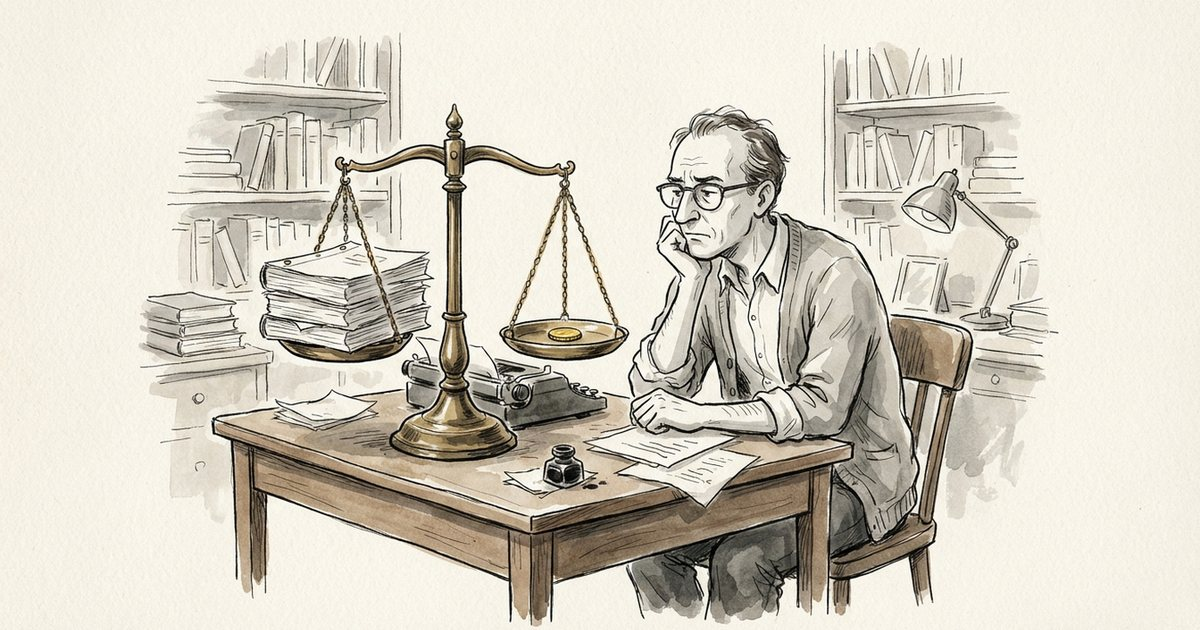
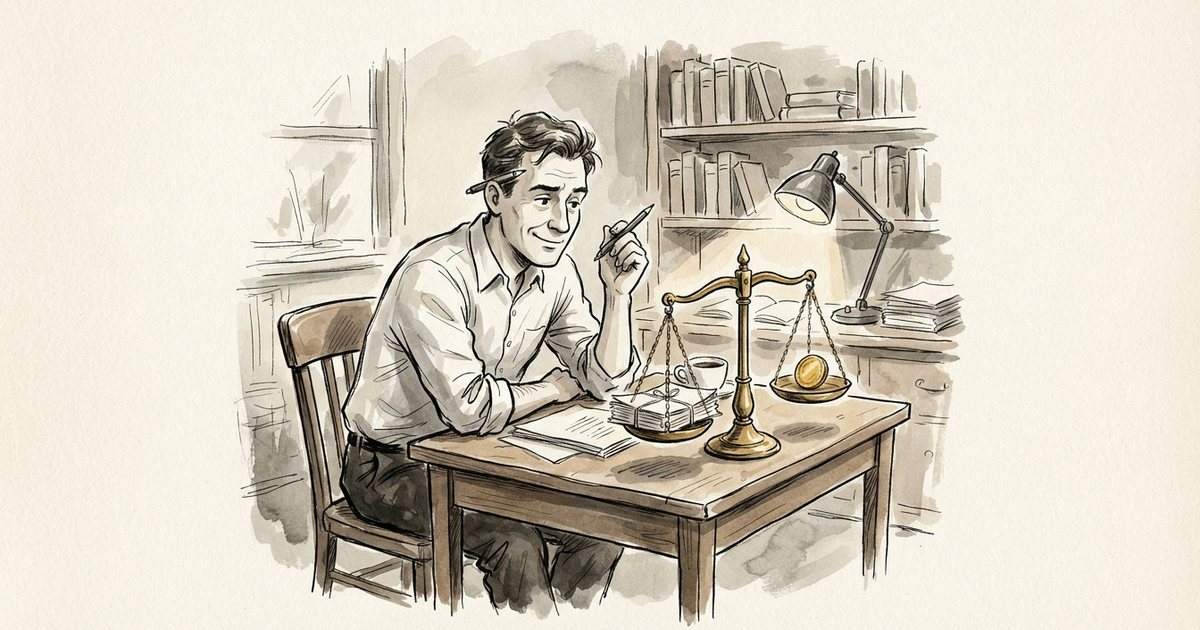
Swap three blog illustrations for more upbeat versions; cache-bust image URLs
Claude-Session: https://claude.ai/code/session_01MHVK5XN9nzGoi33LG9c4rw

diff --git a/blog/index.html b/blog/index.html
@@ -168,19 +168,19 @@
 
   <div class="post-grid">
     <article class="post-card" data-cat="coverage">
-      <picture><source srcset="../assets/img/blog/is-script-coverage-worth-it-720.webp" type="image/webp"><img class="thumb thumb--img" src="../assets/img/blog/is-script-coverage-worth-it-720.jpg" alt="" width="720" height="402" loading="lazy"></picture>
+      <picture><source srcset="../assets/img/blog/is-script-coverage-worth-it-720.webp?v=2" type="image/webp"><img class="thumb thumb--img" src="../assets/img/blog/is-script-coverage-worth-it-720.jpg?v=2" alt="" width="720" height="402" loading="lazy"></picture>
       <p class="label">Coverage &amp; notes</p>
       <h3><a href="is-script-coverage-worth-it/">Is script coverage worth it? An honest answer from the other side of the desk</a></h3>
       <p>What AI, budget and premium coverage actually get you, when it's worth paying for, and the red flags to avoid.</p>
     </article>
     <article class="post-card" data-cat="coverage">
-      <picture><source srcset="../assets/img/blog/script-coverage-vs-script-notes-720.webp" type="image/webp"><img class="thumb thumb--img" src="../assets/img/blog/script-coverage-vs-script-notes-720.jpg" alt="" width="720" height="402" loading="lazy"></picture>
+      <picture><source srcset="../assets/img/blog/script-coverage-vs-script-notes-720.webp?v=2" type="image/webp"><img class="thumb thumb--img" src="../assets/img/blog/script-coverage-vs-script-notes-720.jpg?v=2" alt="" width="720" height="402" loading="lazy"></picture>
       <p class="label">Coverage &amp; notes</p>
       <h3><a href="script-coverage-vs-script-notes/">Script coverage, script notes or a script consultant: which do you need?</a></h3>
       <p>Six kinds of screenplay feedback, what each is built to do, and how to choose the right one for where your script is.</p>
     </article>
     <article class="post-card" data-cat="tv">
-      <picture><source srcset="../assets/img/blog/tv-pilot-first-10-pages-720.webp" type="image/webp"><img class="thumb thumb--img" src="../assets/img/blog/tv-pilot-first-10-pages-720.jpg" alt="" width="720" height="402" loading="lazy"></picture>
+      <picture><source srcset="../assets/img/blog/tv-pilot-first-10-pages-720.webp?v=2" type="image/webp"><img class="thumb thumb--img" src="../assets/img/blog/tv-pilot-first-10-pages-720.jpg?v=2" alt="" width="720" height="402" loading="lazy"></picture>
       <p class="label">Television</p>
       <h3><a href="tv-pilot-first-10-pages/">What a reader looks for in the first 10 pages of a TV pilot</a></h3>
       <p>What a reader needs from page one, page five and page ten, and the mistakes that end the read early.</p>

diff --git a/blog/is-script-coverage-worth-it/index.html b/blog/is-script-coverage-worth-it/index.html
@@ -24,7 +24,7 @@
 <meta property="og:title" content="Is script coverage worth it? An honest answer from the other side of the desk">
 <meta property="og:description" content="What $20, $150 and $500 of coverage actually buys you, when it&#x27;s worth paying for, and when your money is better spent elsewhere.">
 <meta property="og:url" content="https://screenwritingconsultant.com/blog/is-script-coverage-worth-it/">
-<meta property="og:image" content="https://screenwritingconsultant.com/assets/img/blog/is-script-coverage-worth-it-og.jpg">
+<meta property="og:image" content="https://screenwritingconsultant.com/assets/img/blog/is-script-coverage-worth-it-og.jpg?v=2">
 <meta property="article:author" content="Matt Tabak">
 <meta property="article:published_time" content="2026-11-21">
 <meta name="twitter:card" content="summary_large_image">
@@ -41,7 +41,7 @@
       "headline": "Is script coverage worth it? An honest answer from the other side of the desk",
       "description": "Is paid script coverage worth the money? What AI, budget and premium coverage actually get you, when it's worth it, when it isn't, and the red flags to avoid.",
       "mainEntityOfPage": "https://screenwritingconsultant.com/blog/is-script-coverage-worth-it/",
-      "image": "https://screenwritingconsultant.com/assets/img/blog/is-script-coverage-worth-it-og.jpg",
+      "image": "https://screenwritingconsultant.com/assets/img/blog/is-script-coverage-worth-it-og.jpg?v=2",
       "author": {
         "@type": "Person",
         "@id": "https://screenwritingconsultant.com/about/#matt",
@@ -175,7 +175,7 @@
         </div>
       </div>
     </header>
-    <div class="wrap"><figure class="article-hero"><picture><source srcset="../../assets/img/blog/is-script-coverage-worth-it.webp" type="image/webp"><img src="../../assets/img/blog/is-script-coverage-worth-it.jpg" alt="A writer at his desk, chin in hand, studies a brass balance scale with a stack of script pages on one side and a single gold coin on the other" width="1376" height="768" fetchpriority="high"></picture></figure></div>
+    <div class="wrap"><figure class="article-hero"><picture><source srcset="../../assets/img/blog/is-script-coverage-worth-it.webp?v=2" type="image/webp"><img src="../../assets/img/blog/is-script-coverage-worth-it.jpg?v=2" alt="A writer at his desk, chin in hand, studies a brass balance scale with a stack of script pages on one side and a single gold coin on the other" width="1376" height="768" fetchpriority="high"></picture></figure></div>
     <div class="wrap article-layout">
       <nav class="toc" aria-label="In this post">
         <p>In this post</p>

diff --git a/blog/script-coverage-vs-script-notes/index.html b/blog/script-coverage-vs-script-notes/index.html
@@ -24,7 +24,7 @@
 <meta property="og:title" content="Script coverage, script notes or a script consultant: which do you need?">
 <meta property="og:description" content="Six kinds of screenplay feedback, what each one is built to do, and how to pick the right one for where your script is now.">
 <meta property="og:url" content="https://screenwritingconsultant.com/blog/script-coverage-vs-script-notes/">
-<meta property="og:image" content="https://screenwritingconsultant.com/assets/img/blog/script-coverage-vs-script-notes-og.jpg">
+<meta property="og:image" content="https://screenwritingconsultant.com/assets/img/blog/script-coverage-vs-script-notes-og.jpg?v=2">
 <meta property="article:author" content="Matt Tabak">
 <meta property="article:published_time" content="2026-11-21">
 <meta name="twitter:card" content="summary_large_image">
@@ -41,7 +41,7 @@
       "headline": "Script coverage, script notes or a script consultant: which do you need?",
       "description": "Script coverage, script notes, a script consultant or a script doctor: what each kind of screenplay feedback is, what it costs you, and which one fits where your script is now.",
       "mainEntityOfPage": "https://screenwritingconsultant.com/blog/script-coverage-vs-script-notes/",
-      "image": "https://screenwritingconsultant.com/assets/img/blog/script-coverage-vs-script-notes-og.jpg",
+      "image": "https://screenwritingconsultant.com/assets/img/blog/script-coverage-vs-script-notes-og.jpg?v=2",
       "author": {
         "@type": "Person",
         "@id": "https://screenwritingconsultant.com/about/#matt",
@@ -175,7 +175,7 @@
         </div>
       </div>
     </header>
-    <div class="wrap"><figure class="article-hero"><picture><source srcset="../../assets/img/blog/script-coverage-vs-script-notes.webp" type="image/webp"><img src="../../assets/img/blog/script-coverage-vs-script-notes.jpg" alt="A writer studies a row of old keys hanging beside a locked door; one of the keys is gold" width="1376" height="768" fetchpriority="high"></picture></figure></div>
+    <div class="wrap"><figure class="article-hero"><picture><source srcset="../../assets/img/blog/script-coverage-vs-script-notes.webp?v=2" type="image/webp"><img src="../../assets/img/blog/script-coverage-vs-script-notes.jpg?v=2" alt="A writer studies a row of old keys hanging beside a locked door; one of the keys is gold" width="1376" height="768" fetchpriority="high"></picture></figure></div>
     <div class="wrap article-layout">
       <nav class="toc" aria-label="In this post">
         <p>In this post</p>

diff --git a/blog/tv-pilot-first-10-pages/index.html b/blog/tv-pilot-first-10-pages/index.html
@@ -24,7 +24,7 @@
 <meta property="og:title" content="What a reader looks for in the first 10 pages of a TV pilot">
 <meta property="og:description" content="Most pilots are decided early. Here&#x27;s what a reader needs from page one, page five and page ten, and the mistakes that end the read.">
 <meta property="og:url" content="https://screenwritingconsultant.com/blog/tv-pilot-first-10-pages/">
-<meta property="og:image" content="https://screenwritingconsultant.com/assets/img/blog/tv-pilot-first-10-pages-og.jpg">
+<meta property="og:image" content="https://screenwritingconsultant.com/assets/img/blog/tv-pilot-first-10-pages-og.jpg?v=2">
 <meta property="article:author" content="Matt Tabak">
 <meta property="article:published_time" content="2026-11-21">
 <meta name="twitter:card" content="summary_large_image">
@@ -41,7 +41,7 @@
       "headline": "What a reader looks for in the first 10 pages of a TV pilot",
       "description": "What readers, reps and executives look for in the first 10 pages of a TV pilot: tone on page one, a character worth following, the engine, voice, and the mistakes that end the read early.",
       "mainEntityOfPage": "https://screenwritingconsultant.com/blog/tv-pilot-first-10-pages/",
-      "image": "https://screenwritingconsultant.com/assets/img/blog/tv-pilot-first-10-pages-og.jpg",
+      "image": "https://screenwritingconsultant.com/assets/img/blog/tv-pilot-first-10-pages-og.jpg?v=2",
       "author": {
         "@type": "Person",
         "@id": "https://screenwritingconsultant.com/about/#matt",
@@ -175,7 +175,7 @@
         </div>
       </div>
     </header>
-    <div class="wrap"><figure class="article-hero"><picture><source srcset="../../assets/img/blog/tv-pilot-first-10-pages.webp" type="image/webp"><img src="../../assets/img/blog/tv-pilot-first-10-pages.jpg" alt="A reader in a wingback armchair reads a script marked with a gold ribbon bookmark, beside a towering stack of unread scripts" width="1376" height="768" fetchpriority="high"></picture></figure></div>
+    <div class="wrap"><figure class="article-hero"><picture><source srcset="../../assets/img/blog/tv-pilot-first-10-pages.webp?v=2" type="image/webp"><img src="../../assets/img/blog/tv-pilot-first-10-pages.jpg?v=2" alt="A reader in a wingback armchair reads a script marked with a gold ribbon bookmark, beside a towering stack of unread scripts" width="1376" height="768" fetchpriority="high"></picture></figure></div>
     <div class="wrap article-layout">
       <nav class="toc" aria-label="In this post">
         <p>In this post</p>
